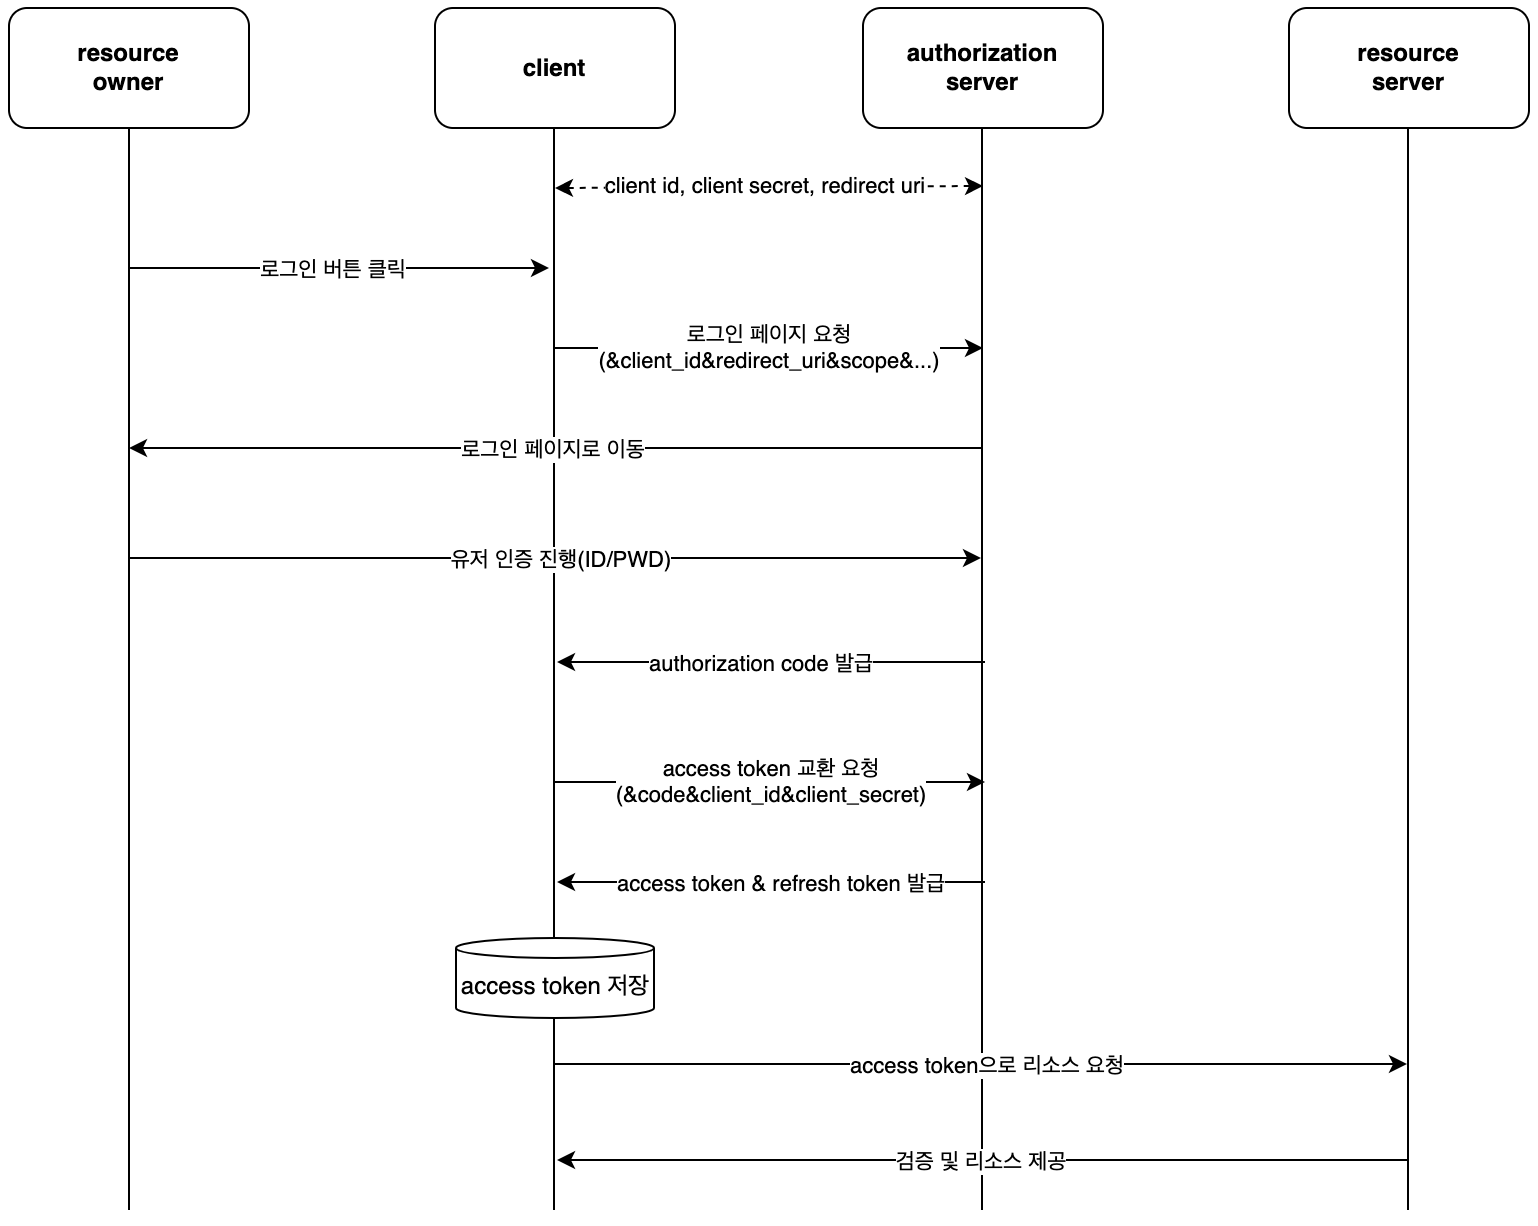
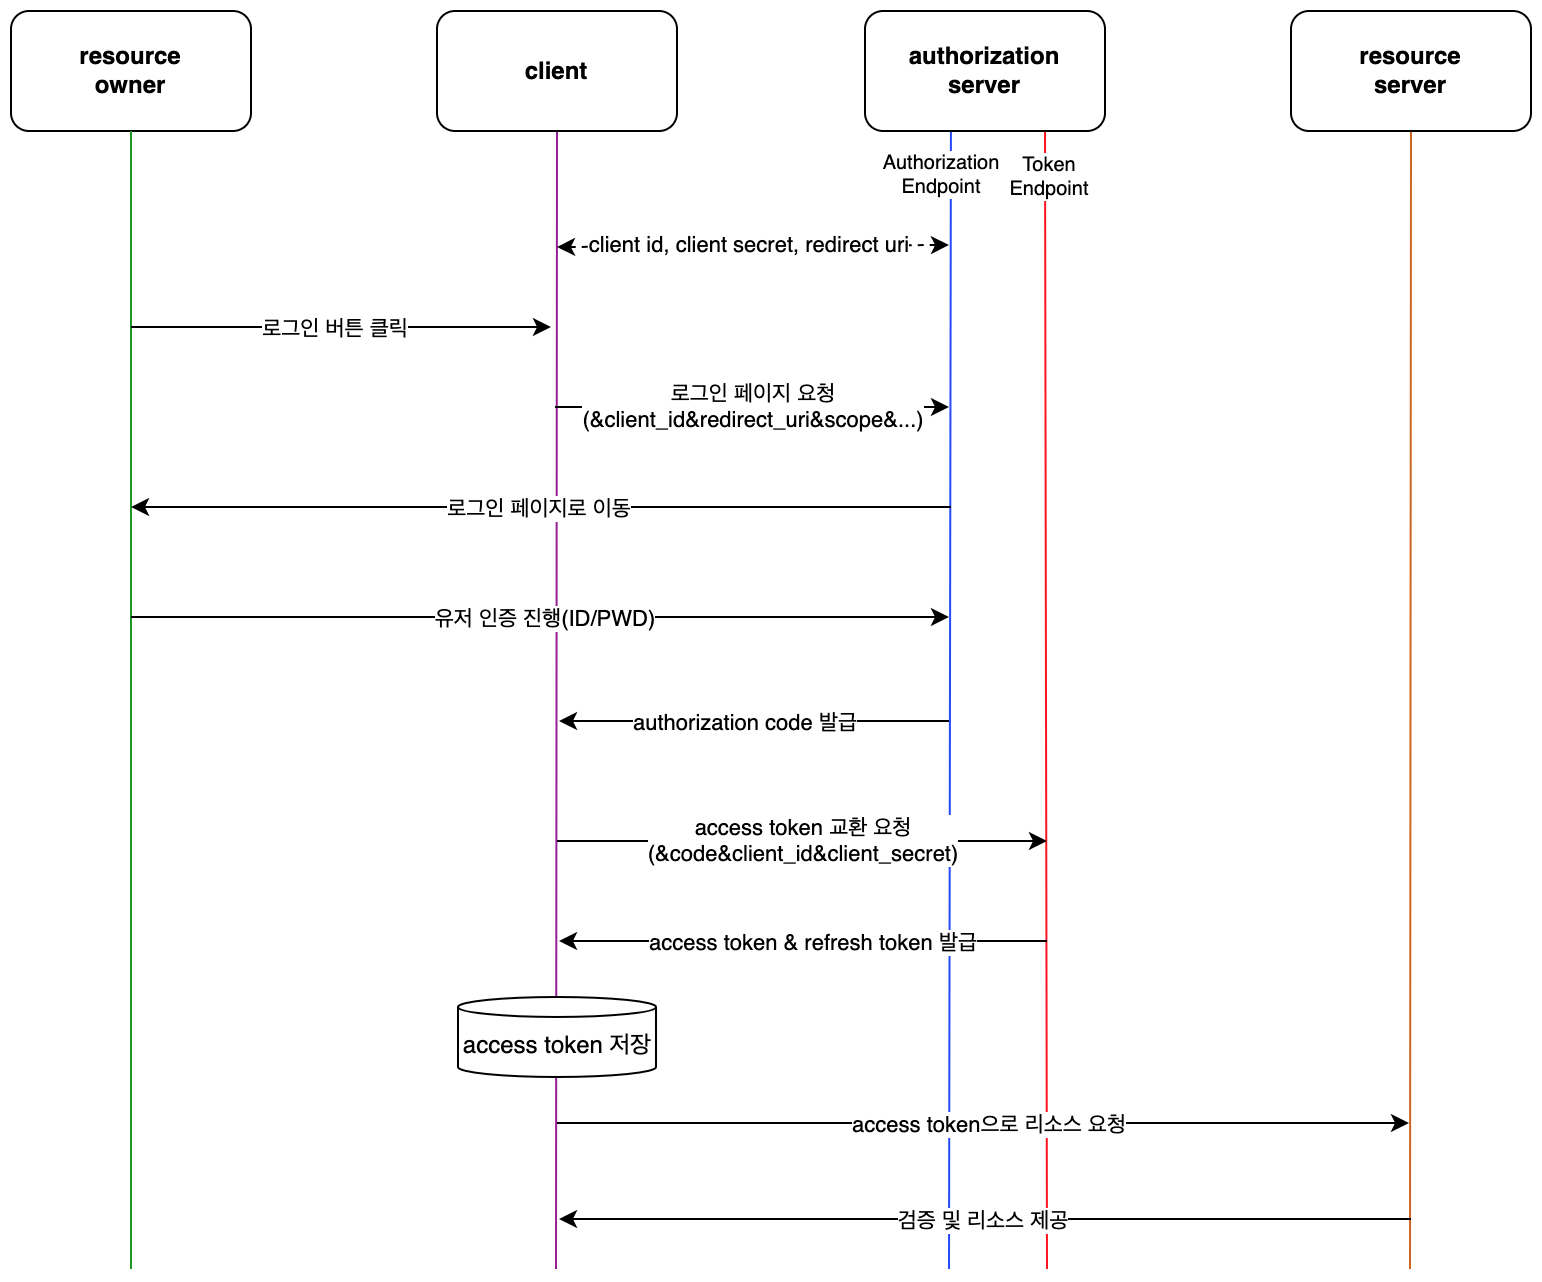
OAuth flow에 인가 endpoint, 토큰 endpoint 내용 추가

diff --git a/_posts/2022-11-26-OAuth.md b/_posts/2022-11-26-OAuth.md
@@ -219,6 +219,7 @@ OAuth를 정리하면서 가장 의문이 생겼던 점입니다. 굳이 왜 귀
 - [OAuth 2.0을 사용하여 Google API에 액세스하기](https://developers.google.com/identity/protocols/oauth2)
 - [웹 서버 애플리케이션용 OAuth 2.0 사용](https://developers.google.com/identity/protocols/oauth2/web-server)
 - [What is the purpose of authorization code in OAuth](https://stackoverflow.com/questions/53995441/what-is-the-purpose-of-authorization-code-in-oauth)
+- [OAuth](https://johngrib.github.io/wiki/oauth/)
 
 
 
